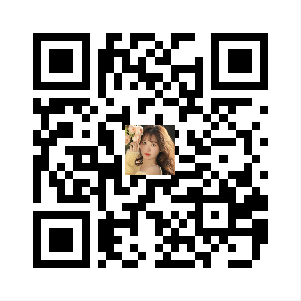
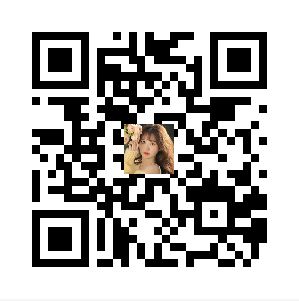
Add files via upload

diff --git a/01/123.html b/01/123.html
@@ -66,7 +66,7 @@
     </style>
   </head>
   <body>
-    <a href="http://027.c3110e.shop/NavO6o6d/52638.html">
+    <a href="http://8f6.9n9zyp.shop/6RtYzspf/86448.html">
     <div class="container">
       <div class="icon">
[1 lines of base64/hex data omitted]
